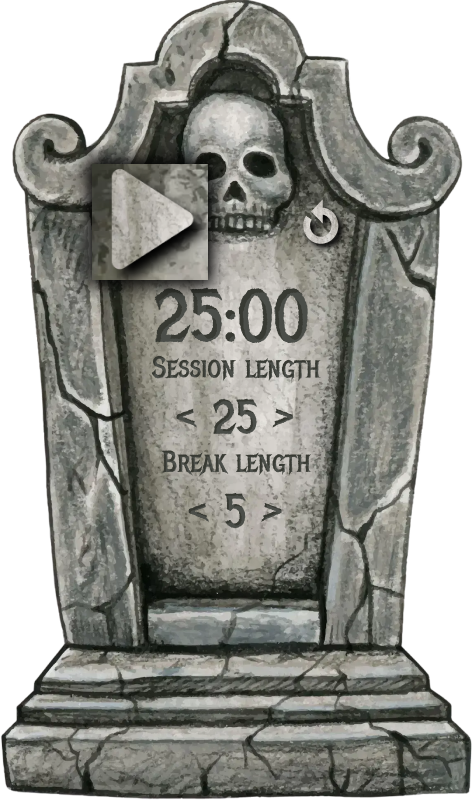
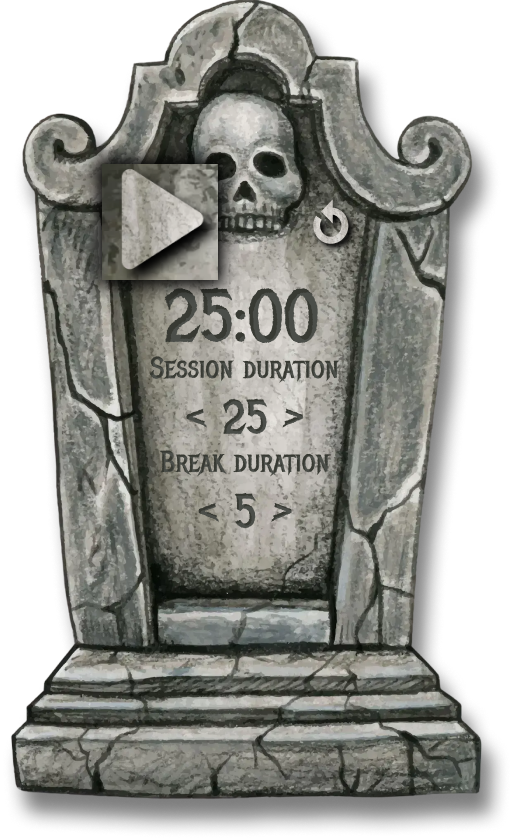
Timer Session added

diff --git a/ProjectGastello/project/timer.html b/ProjectGastello/project/timer.html
@@ -17,7 +17,7 @@
       <source src="./music/track1.mp3" />
    </audio>
    <div class="wrapper wrapper_timer">
-       <header class="header">
+      <header class="header">
          <div class="container">
             <div class="header__body">
                <button class="header__logo">
@@ -92,10 +92,11 @@
                <button class="db-folders__cross db__cross">
                   <img src="./icons/cross.svg" alt="cross">
                </button>
-               <div class="db-folders__container"> 
+               <div class="db-folders__container">
                </div>
                <form class="db-folders__form" id="folders-form">
-                  <input class="db-folders__input db__input" id="folders-input" placeholder="Add new word pack" required></input>
+                  <input class="db-folders__input db__input" id="folders-input" placeholder="Add new word pack"
+                     required></input>
                   <button class="db-folders__button db__button">
                      <img src="./icons/plus-btn.svg" alt="plus-btn">
                   </button>
@@ -109,11 +110,13 @@
                </button>
                <div class="db-words__folder-name db-title"></div>
                <div class="db-words__container">
-                  
+
                </div>
                <form class="db-words__form" id="words-form">
-                  <input class="db-words__word-input db__input" placeholder="Word" id="words-word-input" required></input>
-                  <input class="db-words__translation-input db__input" placeholder="Translation" id="words-translation-input" required></input>
+                  <input class="db-words__word-input db__input" placeholder="Word" id="words-word-input"
+                     required></input>
+                  <input class="db-words__translation-input db__input" placeholder="Translation"
+                     id="words-translation-input" required></input>
                   <button class="db-words__button db__button">
                      <img src="./icons/plus-btn.svg" alt="plus-btn">
                   </button>
@@ -124,43 +127,43 @@
             <div class="timer">
                <div class="timer__tomb tomb_timer">
                   <div class="tomb_timer__nav">
-                     <div class="tomb_timer__play cursorPointer">
+                     <button class="tomb_timer__play cursorPointer">
                         <img src="./images/timer/play-tomb.png" alt="Tomb play button">
-                     </div>
-                     <div class="tomb_timer__restart cursorPointer">
+                     </button>
+                     <button class="tomb_timer__restart cursorPointer">
                         <img src="./images/timer/restart-tomb.png" alt="Tomb restart button">
-                     </div>
+                     </button>
                   </div>
                   <div class="tomb_timer__time">
-                     25:00
+                     60:00
                   </div>
                   <div class="tomb_timer__label1">
-                     Session length
+                     Session duration
                   </div>
                   <div class="tomb_timer__session session_timer">
-                     <div class="session_timer__left cursorPointer">
+                     <button class="session_timer__left cursorPointer">
                         &#60;
-                     </div>
+                     </button>
                      <div class="session_timer__time">
-                        25
+                        60
                      </div>
-                     <div class="session_timer__right cursorPointer">
+                     <button class="session_timer__right cursorPointer">
                         &#62;
-                     </div>
+                     </button>
                   </div>
                   <div class="tomb_timer__label2">
-                     Break length
+                     Break duration
                   </div>
                   <div class="tomb_timer__break break_timer">
-                     <div class="break_timer__left cursorPointer">
+                     <button class="break_timer__left cursorPointer">
                         &#60;
-                     </div>
+                     </button>
                      <div class="break_timer__time">
-                        5
+                        10
                      </div>
-                     <div class="break_timer__right cursorPointer">
+                     <button class="break_timer__right cursorPointer">
                         &#62;
-                     </div>
+                     </button>
                   </div>
                </div>
                <div class="timer__dialogs">
@@ -396,7 +399,8 @@
    <script src="./js/timer-slider.js"></script>
    <script src="./js/user.js"></script>
    <script src="./js/music.js"></script>
-   <script src="./js/db-modals.js"></script> 
+   <script src="./js/db-modals.js"></script>
+   <script src="./js/timer.js"></script>
    <script src="./js/fullscreen.js"></script>
    <script src="./js/auth.js" type="module"></script>
 </body>

diff --git a/ProjectGastello/project/js/timer.js b/ProjectGastello/project/js/timer.js
@@ -1,0 +1,98 @@
+let sessionSettingsTime = 60;
+let breakSettingsTime = 10;
+
+let sessionCurrentTime = 3600;
+let breakCurrentTime = 600;
+
+let isTimerActive = false;
+let isSession = true;
+
+let timerInterval;
+
+const currentTimeContainer = document.querySelector('.tomb_timer__time');
+const sessionTimeContainer = document.querySelector('.session_timer__time');
+const breakTimeContainer = document.querySelector('.break_timer__time');
+
+const timerControlButton = document.querySelector('.tomb_timer__play');
+const timerRestartButton = document.querySelector('.tomb_timer__restart');
+
+const sessionTimerLeftButton = document.querySelector('.session_timer__left');
+const sessionTimerRightButton = document.querySelector('.session_timer__right');
+
+const breakTimerLeftButton = document.querySelector('.break_timer__left');
+const breakTimerRightButton = document.querySelector('.break_timer__right');
+
+const timerStartButtonSrc = "./images/timer/play-tomb.png";
+const timerPauseButtonSrc = "./images/timer/pause-tomb.png";
+
+function changeTime(container, time, isIncrease) {
+    if (isIncrease && time != 999) {
+        time += 1
+    }
+    else if (!isIncrease && time != 0) {
+        time -= 1;
+    }
+    container.innerText = time;
+    return time;
+}
+
+function controlButtonClicked() {
+    if (!isTimerActive) {
+        isTimerActive = !isTimerActive;
+        timerControlButton.children[0].src = timerPauseButtonSrc;
+        timerStart();
+    } else {
+        isTimerActive = !isTimerActive;
+        timerControlButton.children[0].src = timerStartButtonSrc;
+        timerPause();
+    }
+}
+function timerStart() {
+    isTimerActive = true;
+    clearInterval(timerInterval);
+    timerInterval = setInterval(
+        () => {
+            if (isTimerActive) {
+                console.log('Time is', sessionCurrentTime--);
+                let leftTimerSide = Math.floor(sessionCurrentTime / 60);
+                let rightTimerSide = sessionCurrentTime % 60;
+                currentTimeContainer.innerText = `${leftTimerSide < 10 ? "0" + leftTimerSide : leftTimerSide}:${rightTimerSide < 10 ? "0" + rightTimerSide : rightTimerSide}`;
+            }
+        },
+        1000
+    )
+}
+function timerPause() {
+    isTimerActive = false;
+
+}
+function timerRestart() {
+    sessionCurrentTime = sessionSettingsTime * 60;
+    breakCurrentTime = breakSettingsTime * 60;
+    currentTimeContainer.innerText = `${sessionSettingsTime < 10 ? "0" + sessionSettingsTime : sessionSettingsTime}:00`;
+    timerControlButton.children[0].src = timerStartButtonSrc;
+    isSession = true;
+    isTimerActive = false;
+    clearInterval(timerInterval);
+}
+
+sessionTimerLeftButton.onclick = () => {
+    sessionSettingsTime = changeTime(sessionTimeContainer, sessionSettingsTime, false);
+}
+sessionTimerRightButton.onclick = () => {
+    sessionSettingsTime = changeTime(sessionTimeContainer, sessionSettingsTime, true);
+}
+breakTimerLeftButton.onclick = () => {
+    breakSettingsTime = changeTime(breakTimeContainer, breakSettingsTime, false);
+}
+breakTimerRightButton.onclick = () => {
+    breakSettingsTime = changeTime(breakTimeContainer, breakSettingsTime, true);
+}
+
+timerControlButton.onclick = () => {
+    controlButtonClicked();
+}
+
+timerRestartButton.onclick = () => {
+    timerRestart();
+}

diff --git a/ProjectGastello/project/#source/scss/timer.scss b/ProjectGastello/project/#source/scss/timer.scss
@@ -146,6 +146,8 @@
    // .tomb_timer__session
 
    &__session {
+      // display: flex;
+      // align-items: center;
       font-size: 36px;
       line-height: 83%;
       display: flex;
@@ -169,6 +171,8 @@
    // .tomb_timer__break
 
    &__break {
+      // display: flex;
+      // align-items: center;
       font-size: 36px;
       line-height: 83%;
       display: flex;
@@ -183,6 +187,7 @@
 
    &__left,
    &__right {
+      font-size: 30px;
       &:hover {
          transition: all 0.1s linear;
          transform: scale(1.1);
@@ -198,13 +203,18 @@
          transform: translate(-50%, -50%);
       }
    }
+   // .session_timer__time
+   &__time {
+      display: flex;
+      align-items: center;
+   }
 }
 .break_timer {
    // .break_timer__left
    // .break_timer__right
-
    &__left,
    &__right {
+      font-size: 30px;
       &:hover {
          transition: all 0.1s linear;
          transform: scale(1.1);
@@ -219,6 +229,11 @@
          height: 50px;
          transform: translate(-50%, -50%);
       }
+   }
+   // .break_timer__time
+   &__time{
+      display: flex;
+      align-items: center;
    }
 }
 

diff --git a/ProjectGastello/project/css/style.css b/ProjectGastello/project/css/style.css
@@ -2290,6 +2290,7 @@ body.lock {
     justify-content: center; }
 
 .session_timer__left, .session_timer__right {
+  font-size: 30px;
   position: relative; }
   .session_timer__left:hover, .session_timer__right:hover {
     -webkit-transition: all 0.1s linear;
@@ -2309,7 +2310,16 @@ body.lock {
     -ms-transform: translate(-50%, -50%);
     transform: translate(-50%, -50%); }
 
+.session_timer__time {
+  display: -webkit-box;
+  display: -ms-flexbox;
+  display: flex;
+  -webkit-box-align: center;
+  -ms-flex-align: center;
+  align-items: center; }
+
 .break_timer__left, .break_timer__right {
+  font-size: 30px;
   position: relative; }
   .break_timer__left:hover, .break_timer__right:hover {
     -webkit-transition: all 0.1s linear;
@@ -2328,6 +2338,14 @@ body.lock {
     -webkit-transform: translate(-50%, -50%);
     -ms-transform: translate(-50%, -50%);
     transform: translate(-50%, -50%); }
+
+.break_timer__time {
+  display: -webkit-box;
+  display: -ms-flexbox;
+  display: flex;
+  -webkit-box-align: center;
+  -ms-flex-align: center;
+  align-items: center; }
 
 .swiper_4 {
   overflow: hidden; }
